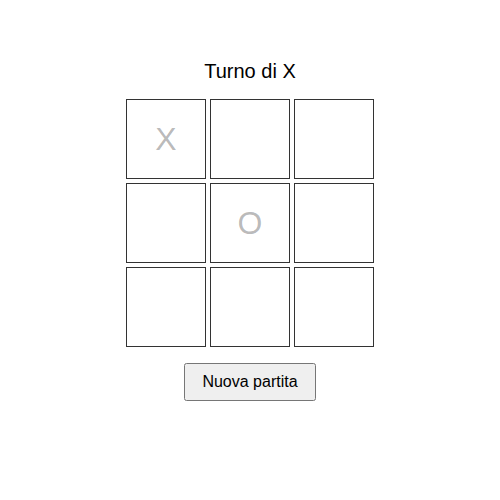
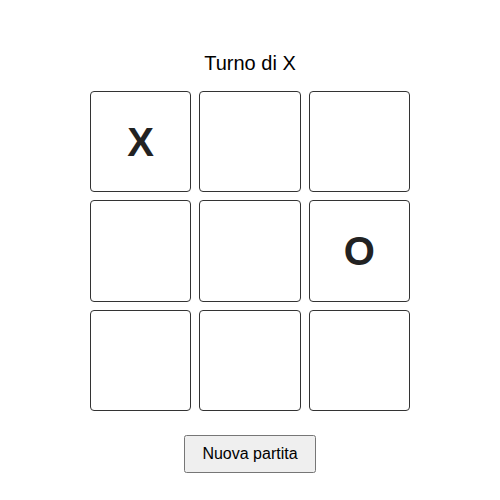
Rifinisci layout responsive del tabellone

diff --git a/style.css b/style.css
@@ -1,13 +1,21 @@
-/* Stile del tabellone e dei controlli: da definire nei compiti di UI. */
+/* Stile del tabellone e dei controlli. */
+
+* {
+  box-sizing: border-box;
+}
 
 body {
   display: flex;
   justify-content: center;
-  padding-top: 2rem;
+  min-height: 100vh;
+  margin: 0;
+  padding: 2rem 1rem;
   font-family: sans-serif;
 }
 
 #app {
+  width: 100%;
+  max-width: 360px;
   text-align: center;
 }
 
@@ -16,29 +24,52 @@ body {
   margin-bottom: 1rem;
 }
 
+/* Messaggio di fine partita: piu' evidente rispetto al normale turno. */
+.status--over {
+  font-size: 1.5rem;
+  font-weight: bold;
+  color: #1a7f37;
+  background: #eaf7ee;
+  border: 1px solid #1a7f37;
+  border-radius: 0.5rem;
+  padding: 0.5rem;
+}
+
 .board {
+  width: 100%;
+  max-width: 320px;
+  aspect-ratio: 1 / 1;
+  margin: 0 auto;
   display: grid;
-  grid-template-columns: repeat(3, 5rem);
-  grid-template-rows: repeat(3, 5rem);
-  gap: 0.25rem;
+  grid-template-columns: repeat(3, 1fr);
+  grid-template-rows: repeat(3, 1fr);
+  gap: 0.5rem;
 }
 
 .cell {
-  font-size: 2rem;
+  width: 100%;
+  height: 100%;
+  font-size: clamp(1.75rem, 10vw, 2.5rem);
+  font-weight: bold;
+  line-height: 1;
   display: flex;
   align-items: center;
   justify-content: center;
   cursor: pointer;
   border: 1px solid #333;
+  border-radius: 0.25rem;
   background: #fff;
+  color: #222;
 }
 
 .cell:disabled {
   cursor: default;
+  opacity: 1;
+  color: #222;
 }
 
 .reset {
-  margin-top: 1rem;
+  margin-top: 1.5rem;
   padding: 0.5rem 1rem;
   font-size: 1rem;
   cursor: pointer;
@@ -46,6 +77,7 @@ body {
 
 .mode-selection {
   display: flex;
+  flex-wrap: wrap;
   gap: 0.5rem;
   justify-content: center;
 }

diff --git a/src/app.js b/src/app.js
@@ -21,7 +21,7 @@ function render() {
   }
 
   const status = document.createElement('p');
-  status.className = 'status';
+  status.className = winner !== null ? 'status status--over' : 'status';
   status.textContent = statusText();
   app.appendChild(status);
 

diff --git a/README.md b/README.md
@@ -46,6 +46,9 @@ node --test
 - `src/ai.js`: `getCpuMove(board)` sceglie casualmente una cella libera tra
   quelle disponibili, senza modificare la board ricevuta. Coperta da test
   in `test/ai.test.js`.
+- `style.css`: tabellone centrato con celle sempre quadrate e dimensioni
+  responsive (funziona anche a 375px di larghezza), font X/O leggibile e
+  messaggio di fine partita evidenziato.
 
 Esempio di output dei test:
 
